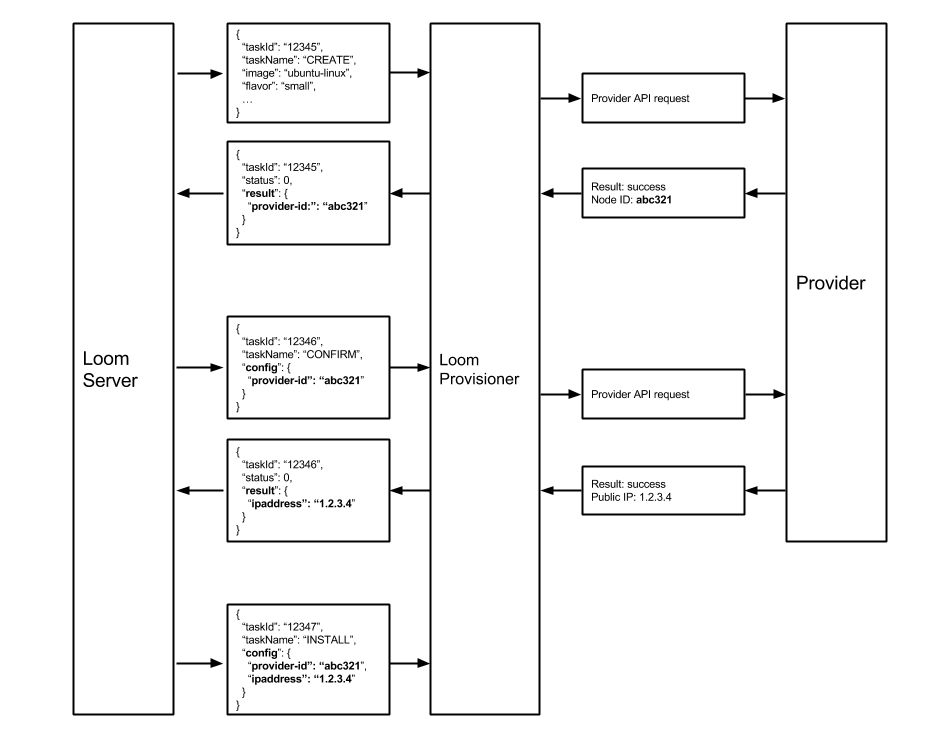
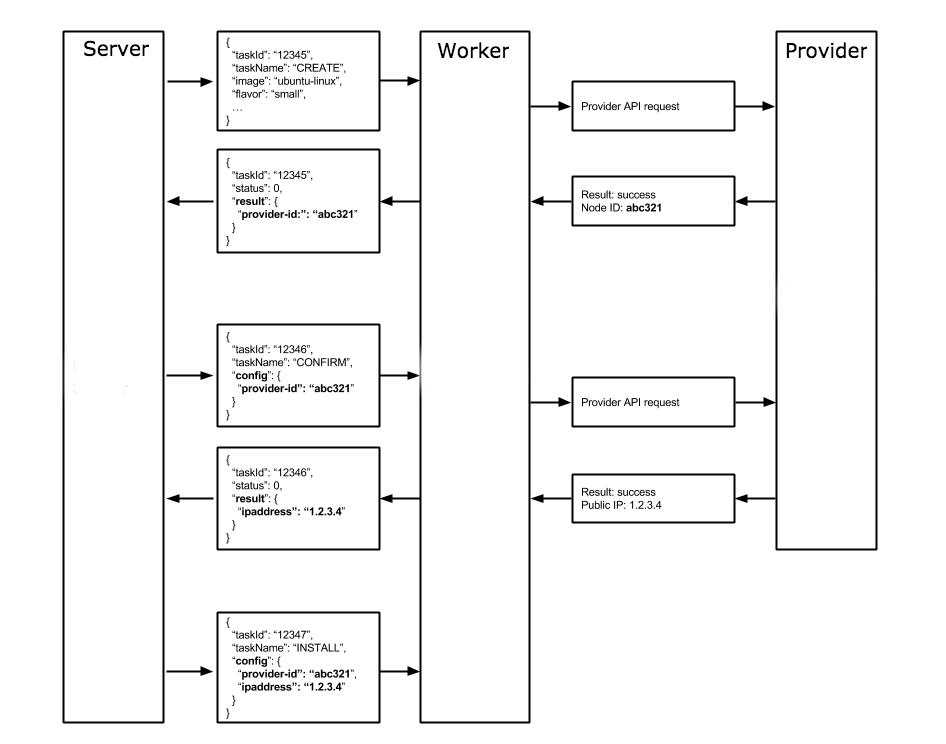
Updating tech docs with new architecture.

Changed region(s): [[0.0613, 0.0309, 0.9503, 0.9892]]

diff --git a/docs/tech-docs/source/overview.rst b/docs/tech-docs/source/overview.rst
@@ -44,23 +44,55 @@ success or failure of its given task.  An architectural overview is shown in the
 We now give an overview of each component before going into their details.
 
 Server
-======
-The Coopr server performs several separate, but related roles.  The first role is to interact with administrators to define providers,
-hardware, images, services, and templates that can be used for cluster management purposes. These definitions are persistently 
-stored, as illustrated in the figure by the Admin APIs box and Store. The second role is to create plans to perform cluster management
-operations. Users make cluster management operation requests through the User APIs, which are then sent to the Solver and Planner to 
-transform the cluster level operation into a plan of node level tasks.
-The final role is to interact with provisioners to coordinate the execution of those node level tasks.  In the figure, this role 
-is performed through the Provisioner APIs box, Task Queue, and Janitor. 
+===========
+The Server is responsible for managing tenants, clusters, and provisioner resources. It exposes web services for adding and
+managing providers, services, and cluster templates for use by users. With these services, users can create and manage
+clusters simply by specifying a template and cluster size. The service solves for a valid cluster layout, then creates and
+coordinates an execution plan to carry out cluster operations. Additionally, provisioner resources can be managed through
+the server, giving provisioners access to new resources as your services evolve.
+
+Solver
+------
+The solver is responsible for taking an existing cluster layout, the template associated with the cluster,
+user specified properties, and finding a valid cluster layout that satisfies all input. For example, when a user
+makes a request to create a cluster, the solver will take the template specified in the request plus any additional
+arguments such as the size of the cluster, and solve for a cluster layout that satisfies all the constraints included
+in the template and the arguments included in the cluster create request. The output of the solver is either an error
+indicating no valid layout could be found, or a new cluster layout.
+
+Planner
+-------
+The planner is responsible for taking an old cluster layout, a new cluster layout, and creating a plan that will take
+the cluster from the old layout to the new layout. For example, during a cluster create operation, the planner takes
+the nonexistant old layout, the new layout, and creates a plan to create the cluster that involves creating the nodes,
+installing, configuring, initializing, and starting cluster services. The planner will take into account service
+dependencies when creating the plan. It will also place tasks onto a queue for provisioner workers to take and execute,
+as well as manage progression, retries, and rollbacks of planned tasks as they are successfully or unsuccessfully executed.
+
+Persistent Stores
+-----------------
+The server stores data for all tenants in a persistent store. Most data, such as providers, hardware types,
+image types, services, cluster templates, and cluster information, are stored in a database. However, plugin resources
+are stored in a special provisioner data store because of their potentially unbounded size. The default implementation of this
+store writes to the local filesystem the server is running on. There is an interface that you can implement if you want to
+use another persistent storage backend. You may want to do this if you are running multiple servers and do not want to use
+some network file system such as NFS.
+
+Janitor
+-------
+The janitor is responsible for timing out and retrying tasks if they have been in progress for too long. The janitor is also
+responsible for auto-deleting clusters that have an expired lease.
 
 Provisioner
-===========
-Provisioners are responsible for taking tasks from the server, executing the task, and reporting back to the server whether or not the 
-task was successfully performed. Provisioners perform tasks by using the provider or automator plugin specified in the task.  Provider plugins
-are used to allocate, delete, and manage machines using different infrastructure providers such as OpenStack, Rackspace, Amazon Web Services, 
-Google App Engine, and Joyent. Automator plugins are responsible for implementing the various services defined on a cluster.  For example, a 
-Chef automator plugin could be used to invoke Chef recipes that install, configure, initialize, start or stop your application.  Various plugins may be 
-implemented to support desired technologies, such as a Puppet plugin, or even shell commands.  
-Provisioners are not directly installed on the target host, but rather use SSHD to interact with the remote host, making Coopr's architecture
-simple and secure. Since multiple provisioners can work concurrently, this layer of provisioners support execution of thousands of concurrent
-tasks.
+================
+Provisioners are responsible for executing tasks planned by the Server, such as the creation of nodes, installation of services,
+and configuration of services. Each provisioner manages workers that take tasks from the Server, reporting back the tasks' status
+after execution completes. Additionally, the provisioner syncs resources on request from the Server, allowing administrators to
+manage what configuration and code should be used to perform various node and service actions.
+
+Provisioners support a pluggable architecture for integrating different infrastructure providers (e.g. OpenStack, Rackspace, Amazon Web Services, Google App Engine, and Joyent)
+and automators (e.g. Chef, Puppet, Shell scripts). Provisioners are not directly installed on the target host, but rather use SSHD to interact with the remote host, making Coopr's architecture simple and secure. Since multiple provisioners can work concurrently, this layer of provisioners support execution of thousands of concurrent tasks to render scalability.
+
+Provisioners spin up worker processes to execute the actual tasks that must be performed. Each worker will only execute tasks for
+a single tenant and will not execute tasks for other tenants even if it is idle. The server is responsible for telling provisioners
+how many workers it should run as well as the tenant those workers are working for.

diff --git a/docs/tech-docs/source/provisioner.rst b/docs/tech-docs/source/provisioner.rst
@@ -9,12 +9,22 @@
 Provisioner
 ===========
 
-The Provisioner is the worker daemon of Coopr.  At a high level, it simply performs tasks given to it by the Server.  These are the tasks necessary to orchestrate cluster operations and may include provisioning nodes from cloud providers, installing/configuring software, or running custom commands.  Each instance of the provisioner polls for the next task in the queue, and handles it to completion.  A plugin framework is utilized to handle any task for extensibility.  The provisioners are lightweight and stateless, therefore many can be run in parallel.
+The Provisioner is responsible for managing workers that perform tasks given to it by the Server.
+These are the tasks necessary to orchestrate cluster operations and may include provisioning nodes from cloud providers,
+installing/configuring software, or running custom commands.  Each worker polls for the next task in
+the queue, and handles it to completion. A plugin framework is utilized to handle any task for extensibility.  
+The provisioner workers are lightweight and stateless, therefore many can be run in parallel.
 
-Operational Model
-=================
+Upon startup, the provisioner will register itself to the server, telling the server the capacity it has and the host and port
+it is running on. With this information, the server may decide to assign workers to the provisioner for one or more tenants.
+Every so often, the provisioner sends a heartbeat to the server that lets the server know it is still alive, and also communicates
+how many workers are currently running on the provisioner. The provisioner also communicates with the server to pull plugin resources
+that may be needed by workers to complete their tasks.
 
-At a high-level, the provisioner is responsible for the following:
+Workers
+========
+
+At a high-level, each provisioner worker is responsible for the following:
   * polling the Server for tasks
   * executing the received task by invoking the appropriate task handler plugin
   * reporting back the results of the operation, including success/failure and any appropriate metadata needed.
@@ -40,8 +50,6 @@ The following diagram illustrates how this is implemented by the Provisioner:
 In the diagram above, the Provisioner first recieves a CREATE task that instructs it to request a node from a specific provider.  The task contains the all the necessary provider-specific options (truncated in the diagram for brevity).  The provisioner then executes the node create request through the provider API and receives the new node's provider ID as a result.  Since this provider ID will be critical for future operations against this node, it must report it back to the Server.  It does so by populating a "result" key-value hash in the task result JSON.  The Server will preserve these key-values in a "config" hash on all subsequent tasks for this node.  In the diagram, the subsequent "CONFIRM" task is given the provider-id for the node, and similarly it reports back the IP address obtained from the provider in this step.  The third task shown now includes all metadata discovered thus far about the node in the request: the provider-id and the ipaddress.  In this way, Coopr is building up a persistent payload of metadata about a node which can be used by any subsequent task.
 
 In addition to this payload of key-value pairs, Coopr also automatically provides additional metadata regarding cluster layout.  For example, once the nodes of a cluster are established, Server will include a "nodes" hash in the task JSON which contains the hostnames and IP addresses of every node in the cluster.  This can be readily used by any task requiring cluster information, for example configuring software on a node which needs a list of all peer nodes in the cluster.
-
-
 
 Plugin Framework
 ================

diff --git a/docs/docs/source/overview/architecture.rst b/docs/docs/source/overview/architecture.rst
@@ -36,6 +36,33 @@ clusters simply by specifying a template and cluster size. The service solves fo
 coordinates an execution plan to carry out cluster operations. Additionally, provisioner resources can be managed through
 the server, giving provisioners access to new resources as your services evolve. 
 
+Solver
+------
+The solver is responsible for taking an existing cluster layout, the template associated with the cluster,
+user specified properties, and finding a valid cluster layout that satisfies all input. For example, when a user
+makes a request to create a cluster, the solver will take the template specified in the request plus any additional
+arguments such as the size of the cluster, and solve for a cluster layout that satisfies all the constraints included
+in the template and the arguments included in the cluster create request. The output of the solver is either an error
+indicating no valid layout could be found, or a new cluster layout.
+
+Planner
+-------
+The planner is responsible for taking an old cluster layout, a new cluster layout, and creating a plan that will take
+the cluster from the old layout to the new layout. For example, during a cluster create operation, the planner takes
+the nonexistant old layout, the new layout, and creates a plan to create the cluster that involves creating the nodes,
+installing, configuring, initializing, and starting cluster services. The planner will take into account service
+dependencies when creating the plan. It will also place tasks onto a queue for provisioner workers to take and execute,
+as well as manage progression, retries, and rollbacks of planned tasks as they are successfully or unsuccessfully executed.
+
+Persistent Stores
+-----------------
+The server stores data for all tenants in a persistent store. Most data, such as providers, hardware types,
+image types, services, cluster templates, and cluster information, are stored in a database. However, plugin resources
+are stored in a special provisioner data store because of their potentially unbounded size. The default implementation of this
+store writes to the local filesystem the server is running on. There is an interface that you can implement if you want to
+use another persistent storage backend. You may want to do this if you are running multiple servers and do not want to use
+some network file system such as NFS.
+
 Provisioner
 ================
 Provisioners are responsible for executing tasks planned by the Server, such as the creation of nodes, installation of services,
@@ -45,6 +72,10 @@ manage what configuration and code should be used to perform various node and se
 
 Provisioners support a pluggable architecture for integrating different infrastructure providers (e.g. OpenStack, Rackspace, Amazon Web Services, Google App Engine, and Joyent) 
 and automators (e.g. Chef, Puppet, Shell scripts). Provisioners are not directly installed on the target host, but rather use SSHD to interact with the remote host, making Coopr's architecture simple and secure. Since multiple provisioners can work concurrently, this layer of provisioners support execution of thousands of concurrent tasks to render scalability.
+
+Provisioners spin up worker processes to execute the actual tasks that must be performed. Each worker will only execute tasks for
+a single tenant and will not execute tasks for other tenants even if it is idle. The server is responsible for telling provisioners
+how many workers it should run as well as the tenant those workers are working for. 
 
 Web UI
 ===========
